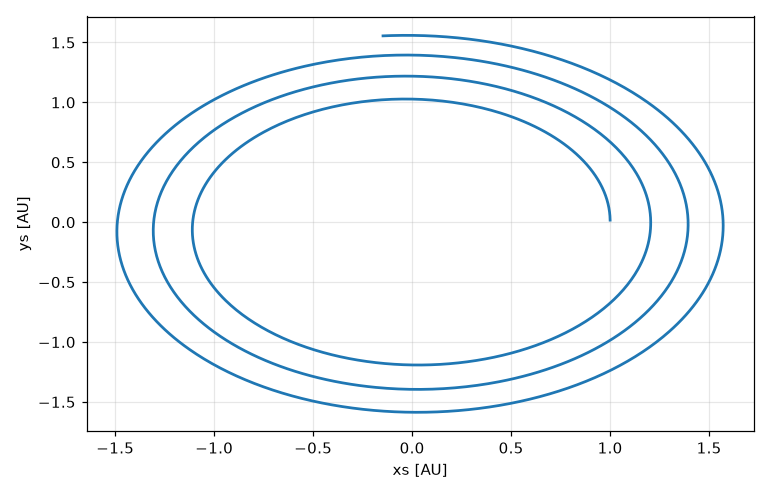
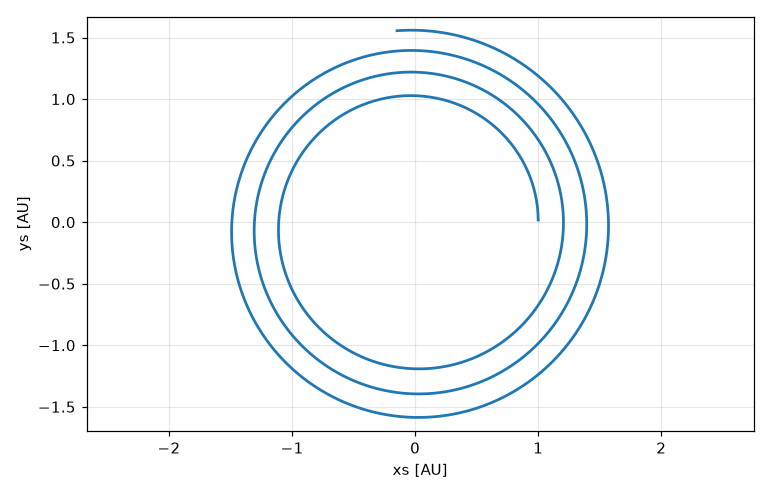
Bootcamp-reported fixes: '/ g' with spaces divides by your variable g (no more silent per-gram), Ctrl+C stops running programs, text variables, fit with expressions on the left (T^2 = k L), fitted values keep the data's unit, list sig figs, len exact, integers print exactly, equal-aspect plots, inf 
Claude-Session: https://claude.ai/code/session_01MrCxKdyUCXVdNVaCF3zPgq

diff --git a/fermium/solve.py b/fermium/solve.py
@@ -225,10 +225,11 @@ def check_fit(ck, s: A.Fit, ctx):
     cols = data.ty.info["columns"]
     colnames = [c["name"] for c in cols]
     lhs, rhs = s.model.lhs, s.model.rhs
-    if not isinstance(lhs, A.Name) or lhs.name not in colnames:
-        raise ck.err(f"the left side of a fit must be a column of the data ({', '.join(colnames)})", lhs)
+    lhs_names = A.free_names(lhs)
+    if not any(n in colnames for n in lhs_names):
+        raise ck.err(f"the left side of a fit must use a column of the data ({', '.join(colnames)})", lhs)
     used = []
-    for n in A.free_names(rhs):
+    for n in A.free_names(rhs) + [x for x in lhs_names if x not in colnames]:
         if n not in used:
             used.append(n)
     guess_names = [g for g, _ in s.guesses]
@@ -264,7 +265,7 @@ def check_fit(ck, s: A.Fit, ctx):
         scope.names[n] = sym
     col_used = []
     for i, c in enumerate(cols):
-        if c["name"] in used or c["name"] == lhs.name:
+        if c["name"] in used or c["name"] in lhs_names:
             sym = I.Sym(c["name"], NumTy(c["unit"].dim), "local", lam)
             sym.assigned = True
             sym.col_index = i
@@ -273,12 +274,16 @@ def check_fit(ck, s: A.Fit, ctx):
             col_used.append(i)
     body = ck.expr(rhs, lctx)
     ck.need_num(body, rhs, "the model")
-    ydim = [c for c in cols if c["name"] == lhs.name][0]["unit"].dim
+    lv = ck.expr(lhs, lctx)
+    ck.need_num(lv, lhs, "the left side of the fit")
+    ydim = lv.ty.dim
+    lname = C.to_source(lhs)
     if not ck.U.unify(body.ty.dim, ydim):
-        raise ck.err(f"the model gives {ck.desc(body.ty.dim)} but {lhs.name} is {ck.desc(ydim)}", s.model,
+        raise ck.err(f"the model gives {ck.desc(body.ty.dim)} but {lname} is {ck.desc(ydim)}", s.model,
                      hint="check the formula: both sides of the fit equation need the same units")
-    lam.body = body
-    lam.ycol = colnames.index(lhs.name)
+    # residual = model - left side; the fit drives it to zero
+    lam.body = I.IBin("-", body, lv, NumTy(ydim))
+    lam.ycol = -1
     ck.new_lambdas.append(lam)
     ck.all_lambdas.append(lam)
     # initial guesses
@@ -310,12 +315,17 @@ def check_fit(ck, s: A.Fit, ctx):
         sym.assigned = True
         sym.sf = 3
         sym.direct = False
+        d = ck.U.norm(pdims[n])
+        if d.concrete:     # show it in the data's unit if a column has the same dimension (τ in min)
+            for c in cols:
+                if c["unit"].dim == d.const and c["unit"].name not in ("1",) and sym.hint is None:
+                    sym.hint = c["unit"]
         out_syms.append(sym)
     fit_id = len(ck.tables.fits)
     ck.tables.fits.append({"params": params, "dims": [pdims[n] for n in params], "model": lam.name,
                            "text": C.to_source(s.model.lhs) + " = " + C.to_source(s.model.rhs),
                            "ycol": lam.ycol, "cols": [sym.col_index for sym in lam.col_syms],
-                           "ydim": ydim, "yname": lhs.name, "path": data.ty.info["path"],
+                           "ydim": ydim, "yname": lname, "path": data.ty.info["path"],
                            "columns": cols})
     return I.SFit(fit_id, data, out_syms, guesses, lam)
 

diff --git a/fermium/checker.py b/fermium/checker.py
@@ -404,7 +404,7 @@ class Checker(C.DiffContext):
                 if isinstance(v, I.IStr):
                     items.append(("text", None, self.text(v.value)))
                 else:
-                    raise self.err("can't print this", a)
+                    items.append(("textvar", v, None))
             elif isinstance(v.ty, DataTy):
                 info = v.ty.info
                 cols = ", ".join(f"{c['name']} [{c['unit'].name}]" if c['unit'].name != "1" else c['name']
@@ -604,7 +604,9 @@ class Checker(C.DiffContext):
         return r
 
     def e_Str(self, e, ctx):
-        return I.IStr(e.value, STR)
+        r = I.IStr(e.value, STR)
+        r.text_id = self.text(e.value)
+        return r
 
     def e_Bool(self, e, ctx):
         return I.IBool(e.value, BOOL)
@@ -737,6 +739,9 @@ class Checker(C.DiffContext):
                             hint="see the list of units in docs/reference.md §15")
         if hint is None and getattr(self, "_calling", False):
             hint = f"define the function first, e.g.  {name}(x) = 2 x"
+        if name == "%":
+            return self.err("% is the percent unit in Fermium (5 % = 0.05)", e,
+                            hint="for the remainder of a division use mod(n, 2)")
         if name in BUILTINS:
             return self.err(f"{name} is a built-in function; call it with arguments like {name}(x)", e)
         return self.err(f"{name} isn't defined", e, hint=hint or f"give it a value first, e.g.  {name} = 1.0 m")
@@ -1041,6 +1046,7 @@ class Checker(C.DiffContext):
         r = I.IList(items, ListTy(dim))
         r.hint = items[0].hint if items else None
         r.sf = self._minsf(*items) if items else None
+        r.direct = bool(items) and all(getattr(it, "direct", False) for it in items)
         return r
 
     def e_Load(self, e, ctx):
@@ -1497,7 +1503,9 @@ class Checker(C.DiffContext):
             if not isinstance(a.ty, ListTy):
                 raise self.err(f"{name} needs a list, but got {type_desc(a.ty, self.U)}", e.args[0])
             if name == "len":
-                return self._bi("len", args, NumTy(DIMLESS), args)
+                r = self._bi("len", args, NumTy(DIMLESS), args)
+                r.sf = None    # a count is exact
+                return r
             if name in ("sum", "mean", "first", "last"):
                 r = self._bi(name, args, NumTy(a.ty.dim), args)
                 r.hint = a.hint
@@ -1710,7 +1718,9 @@ class Checker(C.DiffContext):
         self.need_num(lo, e.lo, "the lower limit")
         self.need_num(hi, e.hi, "the upper limit")
         self.unify_or(lo.ty.dim, hi.ty.dim, lambda: f"the limits of this integral are {self.desc(lo.ty.dim)} and "
-                      f"{self.desc(hi.ty.dim)}; they need the same units", e)
+                      f"{self.desc(hi.ty.dim)}; they need the same units", e,
+                      hint="if you divide or multiply the integral by something, put the integral in parentheses: "
+                           "(∫ ... dx from a to b) / M")
         lam = I.ILambda("scalar", self.fresh_name("integrand"))
         lam.locals = []
         scope = Scope(ctx.scope)

diff --git a/fermium/driver.py b/fermium/driver.py
@@ -53,6 +53,49 @@ def optimize(llmod, tm, level=3):
     mpm.run(llmod, pb)
 
 
+class _CtrlC:
+    """While compiled code runs, Python never gets control back, so its Ctrl+C handling can't work.
+    Install a C-level SIGINT handler (a ctypes callback) that says what happened and exits."""
+
+    def __init__(self, out):
+        self.out = out
+        self.prev = None
+        self.cb = None
+
+    def __enter__(self):
+        import signal
+        if not hasattr(signal, "SIGINT") or os.name == "nt":
+            return self
+        try:
+            import threading
+            if threading.current_thread() is not threading.main_thread():
+                return self
+            libc = ctypes.CDLL(None)
+            HANDLER = ctypes.CFUNCTYPE(None, ctypes.c_int)
+
+            def stop(signum):
+                try:
+                    _sys.stdout.flush()
+                except Exception:
+                    pass
+                os.write(2, b"\nstopped by Ctrl+C\n")
+                os._exit(130)
+            self.cb = HANDLER(stop)
+            self.prev = signal.getsignal(signal.SIGINT)
+            libc.signal.restype = ctypes.c_void_p
+            libc.signal.argtypes = [ctypes.c_int, HANDLER]
+            libc.signal(signal.SIGINT, self.cb)
+        except (OSError, AttributeError, ValueError):
+            self.prev = None
+        return self
+
+    def __exit__(self, *exc):
+        import signal
+        if self.prev is not None:
+            signal.signal(signal.SIGINT, self.prev)
+        return False
+
+
 class Program:
     """A compiled program, ready to run."""
 
@@ -100,7 +143,8 @@ class Program:
         rt.error = None
         rt.error_line = None
         t0 = time.perf_counter()
-        code = self.entry()
+        with _CtrlC(self.out):
+            code = self.entry()
         self.timings["run"] = time.perf_counter() - t0
         if rt.line:
             self.out.write(" ".join(rt.line) + "\n")
@@ -184,7 +228,8 @@ class ReplSession:
         self.runtime.error = None
         for w in self.diags.warnings:
             self.out.write(w.format(text) + "\n")
-        code = fn()
+        with _CtrlC(self.out):
+            code = fn()
         if self.runtime.line:
             self.out.write(" ".join(self.runtime.line) + "\n")
             self.runtime.line = []

diff --git a/fermium/parser.py b/fermium/parser.py
@@ -758,8 +758,8 @@ class Parser:
                 self.warned_units.add(f.name)
                 self.diags.warn(f"'{f.name}' right after a number is the unit {f.name}, not your variable {f.name}",
                                 line=f.line, col=f.col, length=len(f.name),
-                                hint=f"that's usually what you want; to multiply by the variable write 2*{f.name}, "
-                                     f"and to make the unit explicit write [{f.name}]")
+                                hint=f"to multiply by the variable write 2*{f.name}; to make the unit explicit write "
+                                     f"[{f.name}]")
 
     def _warn_unit_then_term(self, e):
         """`0.5 m v²` with a variable m: the m is metres here -- almost certainly a mistake."""
@@ -884,6 +884,12 @@ class Parser:
         if t.kind == "NAME":
             if t.value == "d" and self._is_deriv_op():
                 return self.deriv_op()
+            if t.value == "∞" and self.peek().kind == "NAME" and is_unit_name(self.peek().raw) and \
+                    self.peek().value not in self.known:
+                self.next()
+                n = self.span(A.Name("∞"), t)
+                u = self.unit_expr(explicit=False)
+                return self.span(A.Quantity(n, u), t)
             self.next()
             if t.value == "end" and self.in_index():
                 return self.span(A.End(), t)
@@ -1157,7 +1163,9 @@ class Parser:
         del first
         while True:
             t = self.tok
-            if t.kind == "OP" and t.value == "/" and (unit_name_here(1) or (
+            spaced_var = (not explicit and t.kind == "OP" and t.value == "/" and t.ws_before and
+                          self.peek().kind == "NAME" and self.peek().value in self.known)
+            if t.kind == "OP" and t.value == "/" and not spaced_var and (unit_name_here(1) or (
                     self.peek().kind == "OP" and self.peek().value == "(" and (
                         explicit or unit_name_here(2)))):
                 self.next()

diff --git a/fermium/runtime/core.py b/fermium/runtime/core.py
@@ -92,6 +92,8 @@ class Runtime:
             u = display_unit(f["rdim"], f["hint"])
             vals = [(p[i] - u.offset) / u.factor for i in range(n)]
             sf = f["sf"]
+            if sf is not None and not f["direct"]:
+                sf = max(sf, 2)            # same rule as single numbers (DECISIONS D11)
             if n > 12:
                 shown = [format_number(x, sf or 4, trim=sf is None) for x in vals[:5]] + ["…"] + \
                         [format_number(x, sf or 4, trim=sf is None) for x in vals[-3:]]
@@ -264,8 +266,8 @@ class Runtime:
         addr = self.engine_ref.get_function_address("lam." + info["model"])
         model = ctypes.CFUNCTYPE(None, DPTR, ctypes.POINTER(DPTR), c_int64, DPTR)(addr)
         cols = [data[c] for c in info["cols"]]
-        y = data[info["ycol"]]
-        n = len(y)
+        n = len(data[0]) if data else 0
+        y = np.zeros(n)          # the model returns (model - left side), fitted to zero
         np_ = len(info["params"])
         colptrs = (DPTR * max(1, len(cols)))(*[c.ctypes.data_as(DPTR) for c in cols])
         out = np.zeros(n)
@@ -330,8 +332,9 @@ class Runtime:
         if len(series) > 1:
             ax.legend()
         ax.grid(True, alpha=0.3)
-        if all(s["kind"] == "solxy" for s in info["series"]):
-            ax.set_aspect("equal", adjustable="datalim")
+        if all(s["kind"] == "solxy" or s["rxdim"] == s["rydim"] and not s["rxdim"].dimensionless
+               for s in info["series"]):
+            ax.set_aspect("equal", adjustable="datalim")     # orbits look round
         fig.tight_layout()
         full = info["full"]
         d = os.path.dirname(full)

diff --git a/tests/test_cli.py b/tests/test_cli.py
@@ -156,3 +156,17 @@ def test_unknown_command():
     r = fermium("frobnicate")
     assert r.returncode != 0
     assert "Traceback" not in r.stderr
+
+
+def test_ctrl_c_stops_an_infinite_loop(tmp_path):
+    import signal
+    import time
+    p = tmp_path / "loop.fm"
+    p.write_text("x = 1\nwhile x > 0\n    x += 1\n")
+    proc = subprocess.Popen([sys.executable, "-m", "fermium.cli", "run", str(p)], stderr=subprocess.PIPE,
+                            stdout=subprocess.PIPE, text=True)
+    time.sleep(1.5)
+    proc.send_signal(signal.SIGINT)
+    _, err = proc.communicate(timeout=10)
+    assert "stopped by Ctrl+C" in err
+    assert "Traceback" not in err

diff --git a/fermium/codegen_llvm.py b/fermium/codegen_llvm.py
@@ -866,6 +866,8 @@ class FuncGen:
                 b.call(ex["fm_print_bool"], [b.zext(self.expr(payload), I64)])
             elif kind in ("text", "data"):
                 b.call(ex["fm_print_text"], [i64(fid)])
+            elif kind == "textvar":
+                b.call(ex["fm_print_text"], [self.expr(payload)])
         b.call(ex["fm_print_end"], [])
 
     def s_SSolve(self, s):
@@ -965,7 +967,7 @@ class FuncGen:
         return ir.Constant(I1, 1 if e.value else 0)
 
     def e_IStr(self, e):
-        return i64(0)
+        return i64(getattr(e, "text_id", 0))
 
     def e_IVar(self, e):
         return self.load(e.sym)

diff --git a/fermium/units.py b/fermium/units.py
@@ -444,6 +444,8 @@ def format_number(x: float, sig: int = 6, trim: bool = True) -> str:
         return "∞" if x > 0 else "-∞"
     if x == 0:
         return "0"
+    if trim and x == int(x) and abs(x) < 1e15 and sig >= 6:
+        return str(int(x))          # whole numbers print exactly (1048576, not 1.04858×10⁶)
     sig = max(1, min(sig, 17))
     exp = math.floor(math.log10(abs(x)))
     # rounding may bump the exponent (9.99 -> 10.0)

diff --git a/notes/bugs-bootcamp.md b/notes/bugs-bootcamp.md
@@ -1,5 +1,7 @@
 # Bugs and confusing behaviour found while writing the bootcamp
 
+**Status (bootcamp agent, re-checked at the end):** B1–B14 were reported fixed by the compiler owner; I re-ran the repros and B1, B2, B3, B4, B5, B6, B7, B8, B9 (partly: `pritn` and `furlongs` are fixed, but `print foo(3)` now hints "did you mean floor?" and `omega = 2; print omegat` still gives the generic `omegat = 1.0 m` hint), B10 (line numbers, `(` errors, reserved words), B11, B12, B13 and B14 now behave as expected. **Still open:** B15 (Ctrl+C), B16, B17 (`%` hint), B18 (`20 m/s / g` still silently divides by grams: prints `20 m/(s g)`, no warning), B19, B20, B21, B22, B23, B24, B25, B26, B27, B28, B29.
+
 Written by the bootcamp agent. Each entry: minimal repro, expected, actual. Workarounds used in the lessons are noted.
 
 ## B1. `x^2 L` : a number in an exponent grabs the following name as a unit (ASCII spelling breaks)
